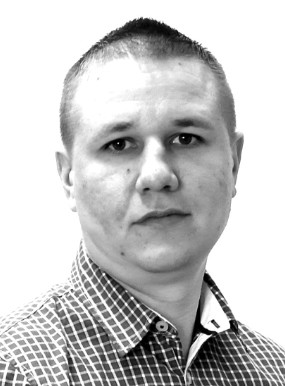
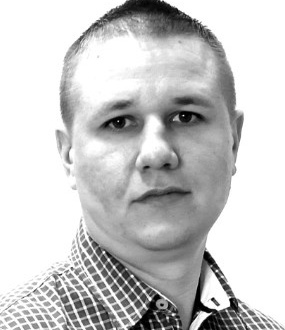
add styles

diff --git a/index.html b/index.html
@@ -1,7 +1,14 @@
 <!DOCTYPE html>
-<html>
-<h1>Sysun Dmytro Ivanovych</h1>
-<p>Junior frontend developer</p>
+<html lang="en">
+  <head>
+    <meta charset="UTF-8">
+    <title>CV | Dmytro Sysun</title>
+
+<link rel="stylesheet" href="./styles/main.css">
+</head>
+<body>
+<h1>Dmytro Sysun</h1>
+<p >Junior frontend developer</p>
 <h2>Contacts:</h2>
 <ul>
     <li> <a href="https://github.com/dmytro2910">GitHub</a> </li>
@@ -9,32 +16,34 @@
     <li>Email: dimon29.10@gmail.com</li>
     <li>Phone number: +380681458229</li>
     <li>Telegram: +380681458229</li>
+    <div>some</div>
 </ul>
 <img src="/img/photo.jpg">
 <h2>About myself</h2>
-<ul>
-    <li>Hardworking;</li> 
+<ul class="list_contact">
+    <li>Hardworking;</li>
     <li>Able to learn quickly;</li>
     <li>Punctual;</li>
     <li>Communicable;</li>
     <li>Responsible;</li>
     <li>Emotionally stable;</li>
+
 </ul>
 <h2>Skills</h2>
-<ul>
-    <li>HTML - learning</li>
-    <li>CSS - learning</li>
-    <li>JavaSkript - learning</li>
-    <li>Git - learning</li>
-    <li>vba - used for macros</li>
-    <li>c# - used for macros</li>
+<ul class="list_technology">
+    <li>HTML5</li>
+    <li>CSS</li>
+    <li>JavaSkript</li>
+    <li>Git</li>
+    <li>vba </li>
+    <li>c# </li>
     <li>DokuWiki</li>
 </ul>
 <h2>Completed course</h2>
-<ol>    
+<ol>
     <li>The Complete C# Course 2019 from sololearn </li>
 </ol>
 <h2>Education</h2>
 <p>2005-2010 - Mechanical engineer in National University of Water Management and Environmental Sciences</p>
-
-</html> 
+</body>
+</html>

diff --git a/styles/main.css b/styles/main.css
@@ -1,0 +1,18 @@
+body {
+  color: #555;
+}
+h1 {
+  color: darkblue;
+}
+img {
+  width: 200px;
+  height: 200px;
+  border-radius: 20;
+}
+.list_contact {
+  background: lightcyan;
+}
+.list_technology {
+  background: lightsalmon;
+}
+
